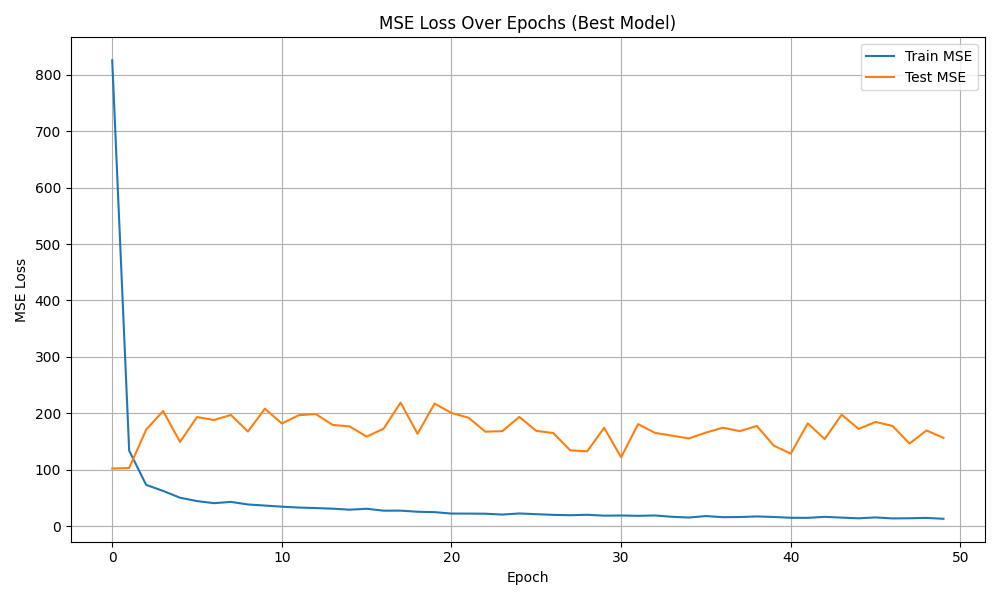
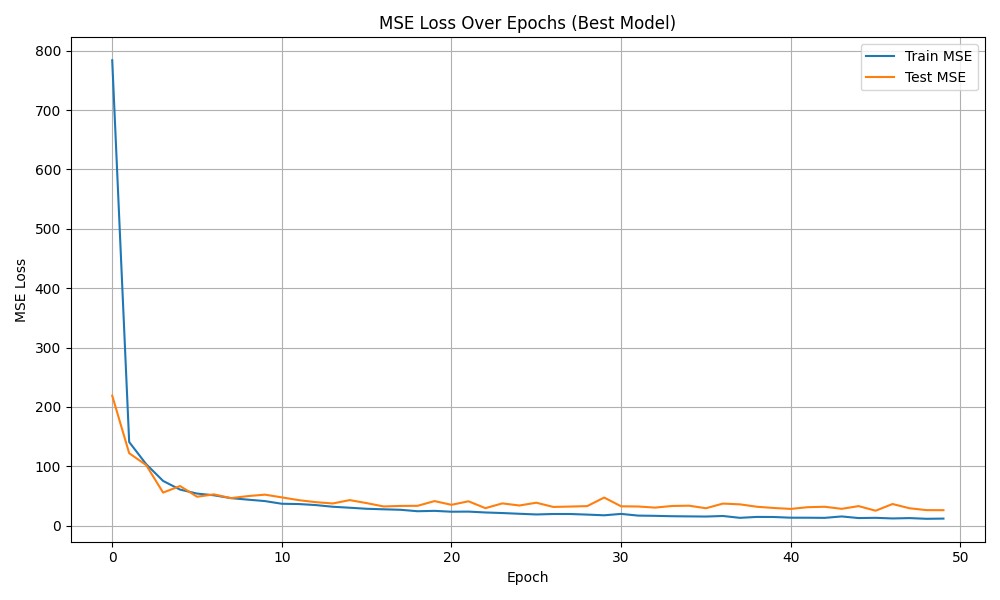
loads data locally, no longer fetch_ucirepo

diff --git a/DNN/DNN_run_best_comb.py b/DNN/DNN_run_best_comb.py
@@ -1,10 +1,12 @@
 import os
 import numpy as np
+import pandas as pd
 import tensorflow as tf
 import matplotlib.pyplot as plt
 
-from ucimlrepo import fetch_ucirepo
+# from ucimlrepo import fetch_ucirepo
 from sklearn.preprocessing import StandardScaler
+from sklearn.model_selection import train_test_split
 from scikeras.wrappers import KerasRegressor
 
 from model_creator import create_model
@@ -16,9 +18,12 @@ os.makedirs("outputs", exist_ok=True)
 tf.keras.backend.set_floatx('float32')
 
 # ===== Load Dataset =====
-concrete_data = fetch_ucirepo(id=165)
-X = concrete_data.data.features
-y = concrete_data.data.targets.values.ravel()
+# concrete_data = fetch_ucirepo(id=165)
+# X = concrete_data.data.features
+# y = concrete_data.data.targets.values.ravel()
+concrete_data = pd.read_csv("data/Concrete_Data_Yeh.csv")
+X = concrete_data.iloc[:, :-1].values
+y = concrete_data.iloc[:, -1].values
 
 # ===== Check and Fix NaNs =====
 print("NaNs in X (input features)")
@@ -52,11 +57,9 @@ best_model = KerasRegressor(
     **best_params
 )
 
-# Train the model and save training history
-history = best_model.fit(X_scaled, y, validation_split=0.2)
-
-# Make sure output folder exists
-os.makedirs("outputs", exist_ok=True)
+# Split and train
+X_train, X_test, y_train, y_test = train_test_split(X_scaled, y, test_size=0.2, random_state=42)
+history = best_model.fit(X_train, y_train, validation_data=(X_test, y_test))
 
 # Plot training and validation loss
 plt.figure(figsize=(10, 6))

diff --git a/DNN/DNN_gridsearch.py b/DNN/DNN_gridsearch.py
@@ -1,8 +1,9 @@
 import os
 import numpy as np
+import pandas as pd
 import tensorflow as tf
 
-from ucimlrepo import fetch_ucirepo
+# from ucimlrepo import fetch_ucirepo
 from sklearn.model_selection import GridSearchCV, KFold
 from sklearn.preprocessing import StandardScaler
 from scikeras.wrappers import KerasRegressor
@@ -16,9 +17,13 @@ os.makedirs("outputs", exist_ok=True)
 tf.keras.backend.set_floatx('float32')
 
 # ===== Load Dataset =====
-concrete_data = fetch_ucirepo(id=165)
-X = concrete_data.data.features
-y = concrete_data.data.targets.values.ravel()
+# concrete_data = fetch_ucirepo(id=165)
+# X = concrete_data.data.features
+# y = concrete_data.data.targets.values.ravel()
+concrete_data = pd.read_csv("data/Concrete_Data_Yeh.csv")
+X = concrete_data.iloc[:, :-1].values
+y = concrete_data.iloc[:, -1].values
+
 
 # ===== Check and Fix NaNs =====
 print("NaNs in X (input features)")
